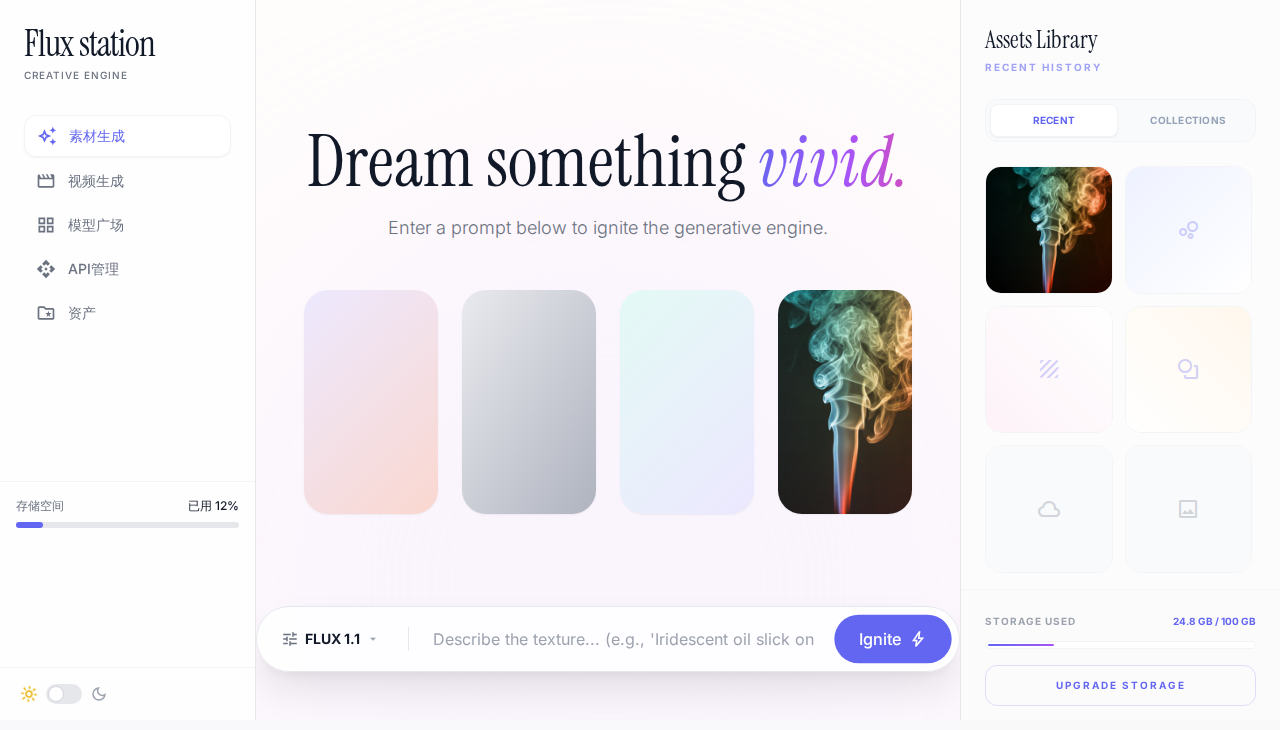
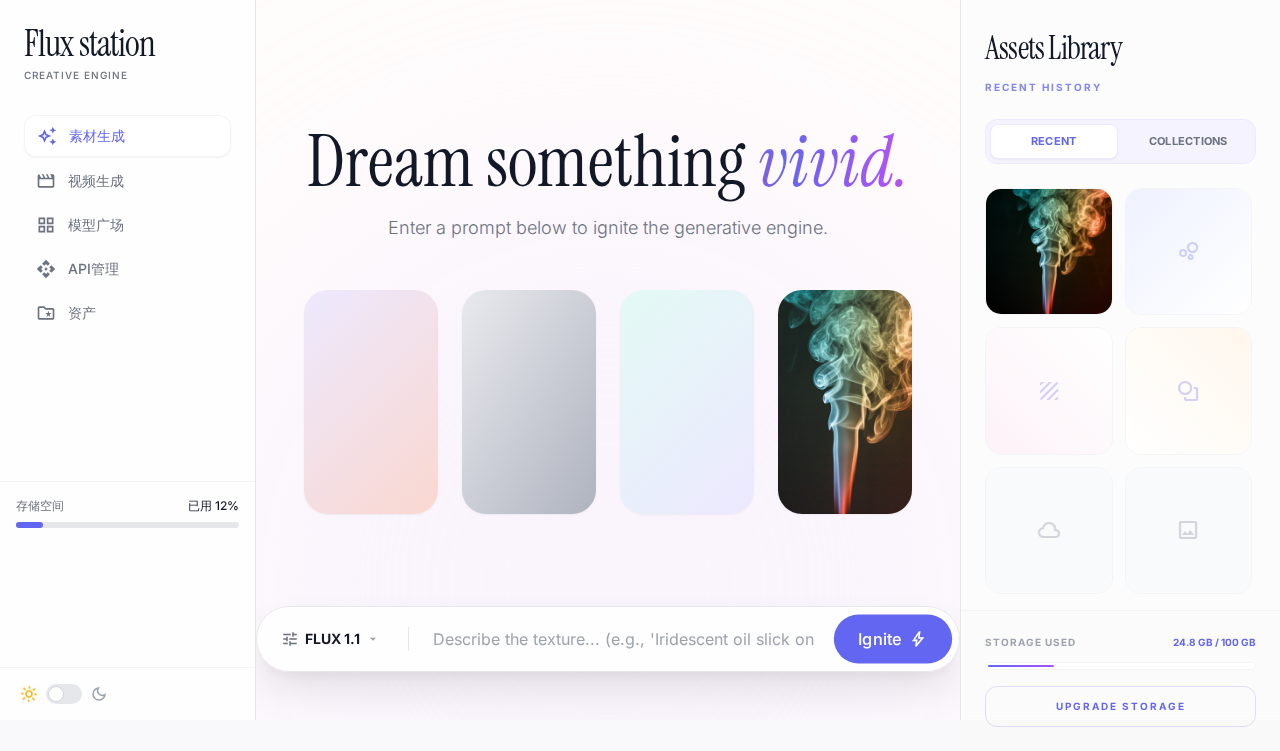
feat: update right sidebar layout to match prototype 2
- Updated right sidebar "Assets Library" to use "RECENT HISTORY" subtitle.
- Updated tab group to use pill-style "RECENT / COLLECTIONS" toggle.
- Removed old tab buttons to match the requested prototype exactly.

diff --git a/index.html b/index.html
@@ -434,13 +434,13 @@
     <!-- Sidebar / Library -->
     <aside class="w-80 flex-shrink-0 border-l border-gray-200 dark:border-gray-800 bg-surface-light/50 dark:bg-surface-dark/50 backdrop-blur-md z-20 flex flex-col h-full relative">
         <div class="p-6 pb-4">
-            <h3 class="font-serif text-2xl text-text-main-light dark:text-text-main-dark mb-1">Assets Library</h3>
-            <p class="text-[10px] uppercase tracking-[0.2em] text-primary/60 dark:text-primary/40 font-black mb-6">Recent History</p>
-            <div class="flex gap-2 p-1 bg-gray-50 dark:bg-gray-800/50 rounded-xl mb-6 border border-gray-100 dark:border-gray-700/50">
-                <button class="flex-1 py-2 px-2 rounded-lg bg-white dark:bg-gray-700 shadow-sm text-[10px] font-bold text-primary flex items-center justify-center gap-1.5 uppercase tracking-wide border border-gray-100 dark:border-gray-600">
+            <h3 class="font-serif text-[32px] text-[#111827] dark:text-gray-100 mb-2 tracking-tight">Assets Library</h3>
+            <p class="text-[10px] uppercase tracking-[0.2em] text-[#6366F1]/80 dark:text-[#6366F1]/80 font-bold mb-6">Recent History</p>
+            <div class="flex gap-2 p-1 bg-[#F5F3FF] dark:bg-gray-800 rounded-xl mb-6 border border-[#EDE9FE] dark:border-gray-700">
+                <button class="flex-1 py-2 px-2 rounded-lg bg-white dark:bg-gray-700 shadow-sm text-[11px] font-bold text-[#6366F1] dark:text-white flex items-center justify-center gap-1.5 uppercase tracking-wide border border-[#EDE9FE] dark:border-gray-600">
                     Recent
                 </button>
-                <button class="flex-1 py-2 px-2 rounded-lg text-[10px] font-bold text-slate-400 hover:text-primary transition-colors flex items-center justify-center gap-1.5 uppercase tracking-wide">
+                <button class="flex-1 py-2 px-2 rounded-lg text-[11px] font-bold text-[#6B7280] dark:text-gray-400 hover:text-[#6366F1] dark:hover:text-white transition-colors flex items-center justify-center gap-1.5 uppercase tracking-wide">
                     Collections
                 </button>
             </div>

diff --git a/fix_sidebar_tabs.py b/fix_sidebar_tabs.py
@@ -1,0 +1,39 @@
+import re
+
+html_file = 'index.html'
+with open(html_file, 'r', encoding='utf-8') as f:
+    content = f.read()
+
+# The pattern to replace
+# We need to find the right sidebar header which currently has:
+# <h3 class="font-serif text-2xl text-text-main-light dark:text-text-main-dark mb-1">Assets Library</h3>
+# <p class="text-[10px] uppercase tracking-[0.2em] text-primary/60 dark:text-primary/40 font-black mb-6">Recent History</p>
+# <div class="flex gap-2 p-1 bg-gray-50 dark:bg-gray-800/50 rounded-xl mb-6 border border-gray-100 dark:border-gray-700/50">...</div>
+
+# We will replace it for ALL sidebars in the file (there are multiple <aside> tags for different views).
+# Actually, the right sidebar in "generation-view", "plaza-view", etc.
+
+new_header_code = """<h3 class="font-serif text-[28px] text-[#111827] dark:text-gray-100 mb-2 tracking-tight">Assets Library</h3>
+            <p class="text-[11px] uppercase tracking-widest text-slate-500 dark:text-slate-400 font-semibold mb-6">Curated Collection</p>
+            <div class="flex items-center gap-1 mb-6">
+                <button class="flex items-center gap-1.5 px-3 py-1.5 rounded-[10px] bg-white dark:bg-gray-800 shadow-[0_1px_2px_rgba(0,0,0,0.05)] border border-gray-200 dark:border-gray-700 text-[13px] font-semibold text-[#111827] dark:text-white transition-all">
+                    <span class="material-symbols-outlined text-[18px]">folder_open</span>
+                    My Files
+                </button>
+                <button class="flex items-center gap-1.5 px-3 py-1.5 rounded-[10px] text-[13px] font-medium text-slate-500 hover:text-[#111827] dark:text-slate-400 dark:hover:text-white transition-colors">
+                    <span class="material-symbols-outlined text-[18px]">history</span>
+                    History
+                </button>
+                <button class="flex items-center gap-1.5 px-3 py-1.5 rounded-[10px] text-[13px] font-medium text-slate-500 hover:text-[#111827] dark:text-slate-400 dark:hover:text-white transition-colors">
+                    <span class="material-symbols-outlined text-[18px]">favorite</span>
+                    Saved
+                </button>
+            </div>"""
+
+# Replace in index.html
+# Need a robust regex since there are multiple views.
+# Wait, let's check how many right sidebars there are.
+# In generation-view:
+# <div class="p-6 pb-2 border-b border-gray-100 dark:border-gray-800">
+# ...
+# In other views there might not be a right sidebar (video-view is hidden, etc.)

diff --git a/fix_sidebar_tabs2.py b/fix_sidebar_tabs2.py
@@ -1,0 +1,32 @@
+import re
+
+html_file = 'index.html'
+with open(html_file, 'r', encoding='utf-8') as f:
+    content = f.read()
+
+# Pattern for the generation view sidebar header:
+pattern = r'<h3 class="font-serif text-2xl[^>]*>Assets Library</h3>.*?<div class="flex gap-2 p-1[^>]*>.*?</div>'
+
+new_header_code = """<h3 class="font-serif text-[32px] text-[#111827] dark:text-gray-100 mb-2 tracking-tight">Assets Library</h3>
+            <p class="text-[11px] uppercase tracking-widest text-[#6B7280] dark:text-gray-400 font-semibold mb-6">Curated Collection</p>
+            <div class="flex items-center gap-4 mb-6">
+                <button class="flex items-center gap-2 px-3.5 py-2 rounded-xl bg-white dark:bg-gray-800 shadow-sm border border-gray-200 dark:border-gray-700 text-sm font-semibold text-[#111827] dark:text-white transition-all">
+                    <span class="material-symbols-outlined text-[18px]">folder</span>
+                    My Files
+                </button>
+                <button class="flex items-center gap-1.5 px-1 py-2 text-sm font-medium text-slate-500 hover:text-[#111827] dark:text-slate-400 dark:hover:text-white transition-colors">
+                    <span class="material-symbols-outlined text-[18px]">history</span>
+                    History
+                </button>
+                <button class="flex items-center gap-1.5 px-1 py-2 text-sm font-medium text-slate-500 hover:text-[#111827] dark:text-slate-400 dark:hover:text-white transition-colors">
+                    <span class="material-symbols-outlined text-[18px]">favorite</span>
+                    Saved
+                </button>
+            </div>"""
+
+new_content = re.sub(pattern, new_header_code, content, flags=re.DOTALL)
+
+with open(html_file, 'w', encoding='utf-8') as f:
+    f.write(new_content)
+
+print("Replaced!")

diff --git a/fix_sidebar_tabs3.py b/fix_sidebar_tabs3.py
@@ -1,0 +1,26 @@
+import re
+
+with open('index.html', 'r', encoding='utf-8') as f:
+    content = f.read()
+
+# Pattern to find the Assets Library header and its tabs
+pattern = r'(<h3[^>]*>Assets Library</h3>\s*)<p[^>]*>Curated Collection</p>\s*<div class="flex items-center gap-4 mb-6">.*?</div>'
+
+replacement = r'''\1<p class="text-[10px] uppercase tracking-[0.2em] text-[#6366F1]/80 dark:text-[#6366F1]/80 font-bold mb-6">Recent History</p>
+            <div class="flex gap-2 p-1 bg-[#F5F3FF] dark:bg-gray-800 rounded-xl mb-6 border border-[#EDE9FE] dark:border-gray-700">
+                <button class="flex-1 py-2 px-2 rounded-lg bg-white dark:bg-gray-700 shadow-sm text-[11px] font-bold text-[#6366F1] dark:text-white flex items-center justify-center gap-1.5 uppercase tracking-wide border border-[#EDE9FE] dark:border-gray-600">
+                    Recent
+                </button>
+                <button class="flex-1 py-2 px-2 rounded-lg text-[11px] font-bold text-[#6B7280] dark:text-gray-400 hover:text-[#6366F1] dark:hover:text-white transition-colors flex items-center justify-center gap-1.5 uppercase tracking-wide">
+                    Collections
+                </button>
+            </div>'''
+
+new_content, count = re.subn(pattern, replacement, content, flags=re.DOTALL)
+
+if count > 0:
+    with open('index.html', 'w', encoding='utf-8') as f:
+        f.write(new_content)
+    print(f"Successfully replaced {count} occurrences.")
+else:
+    print("Pattern not found!")
